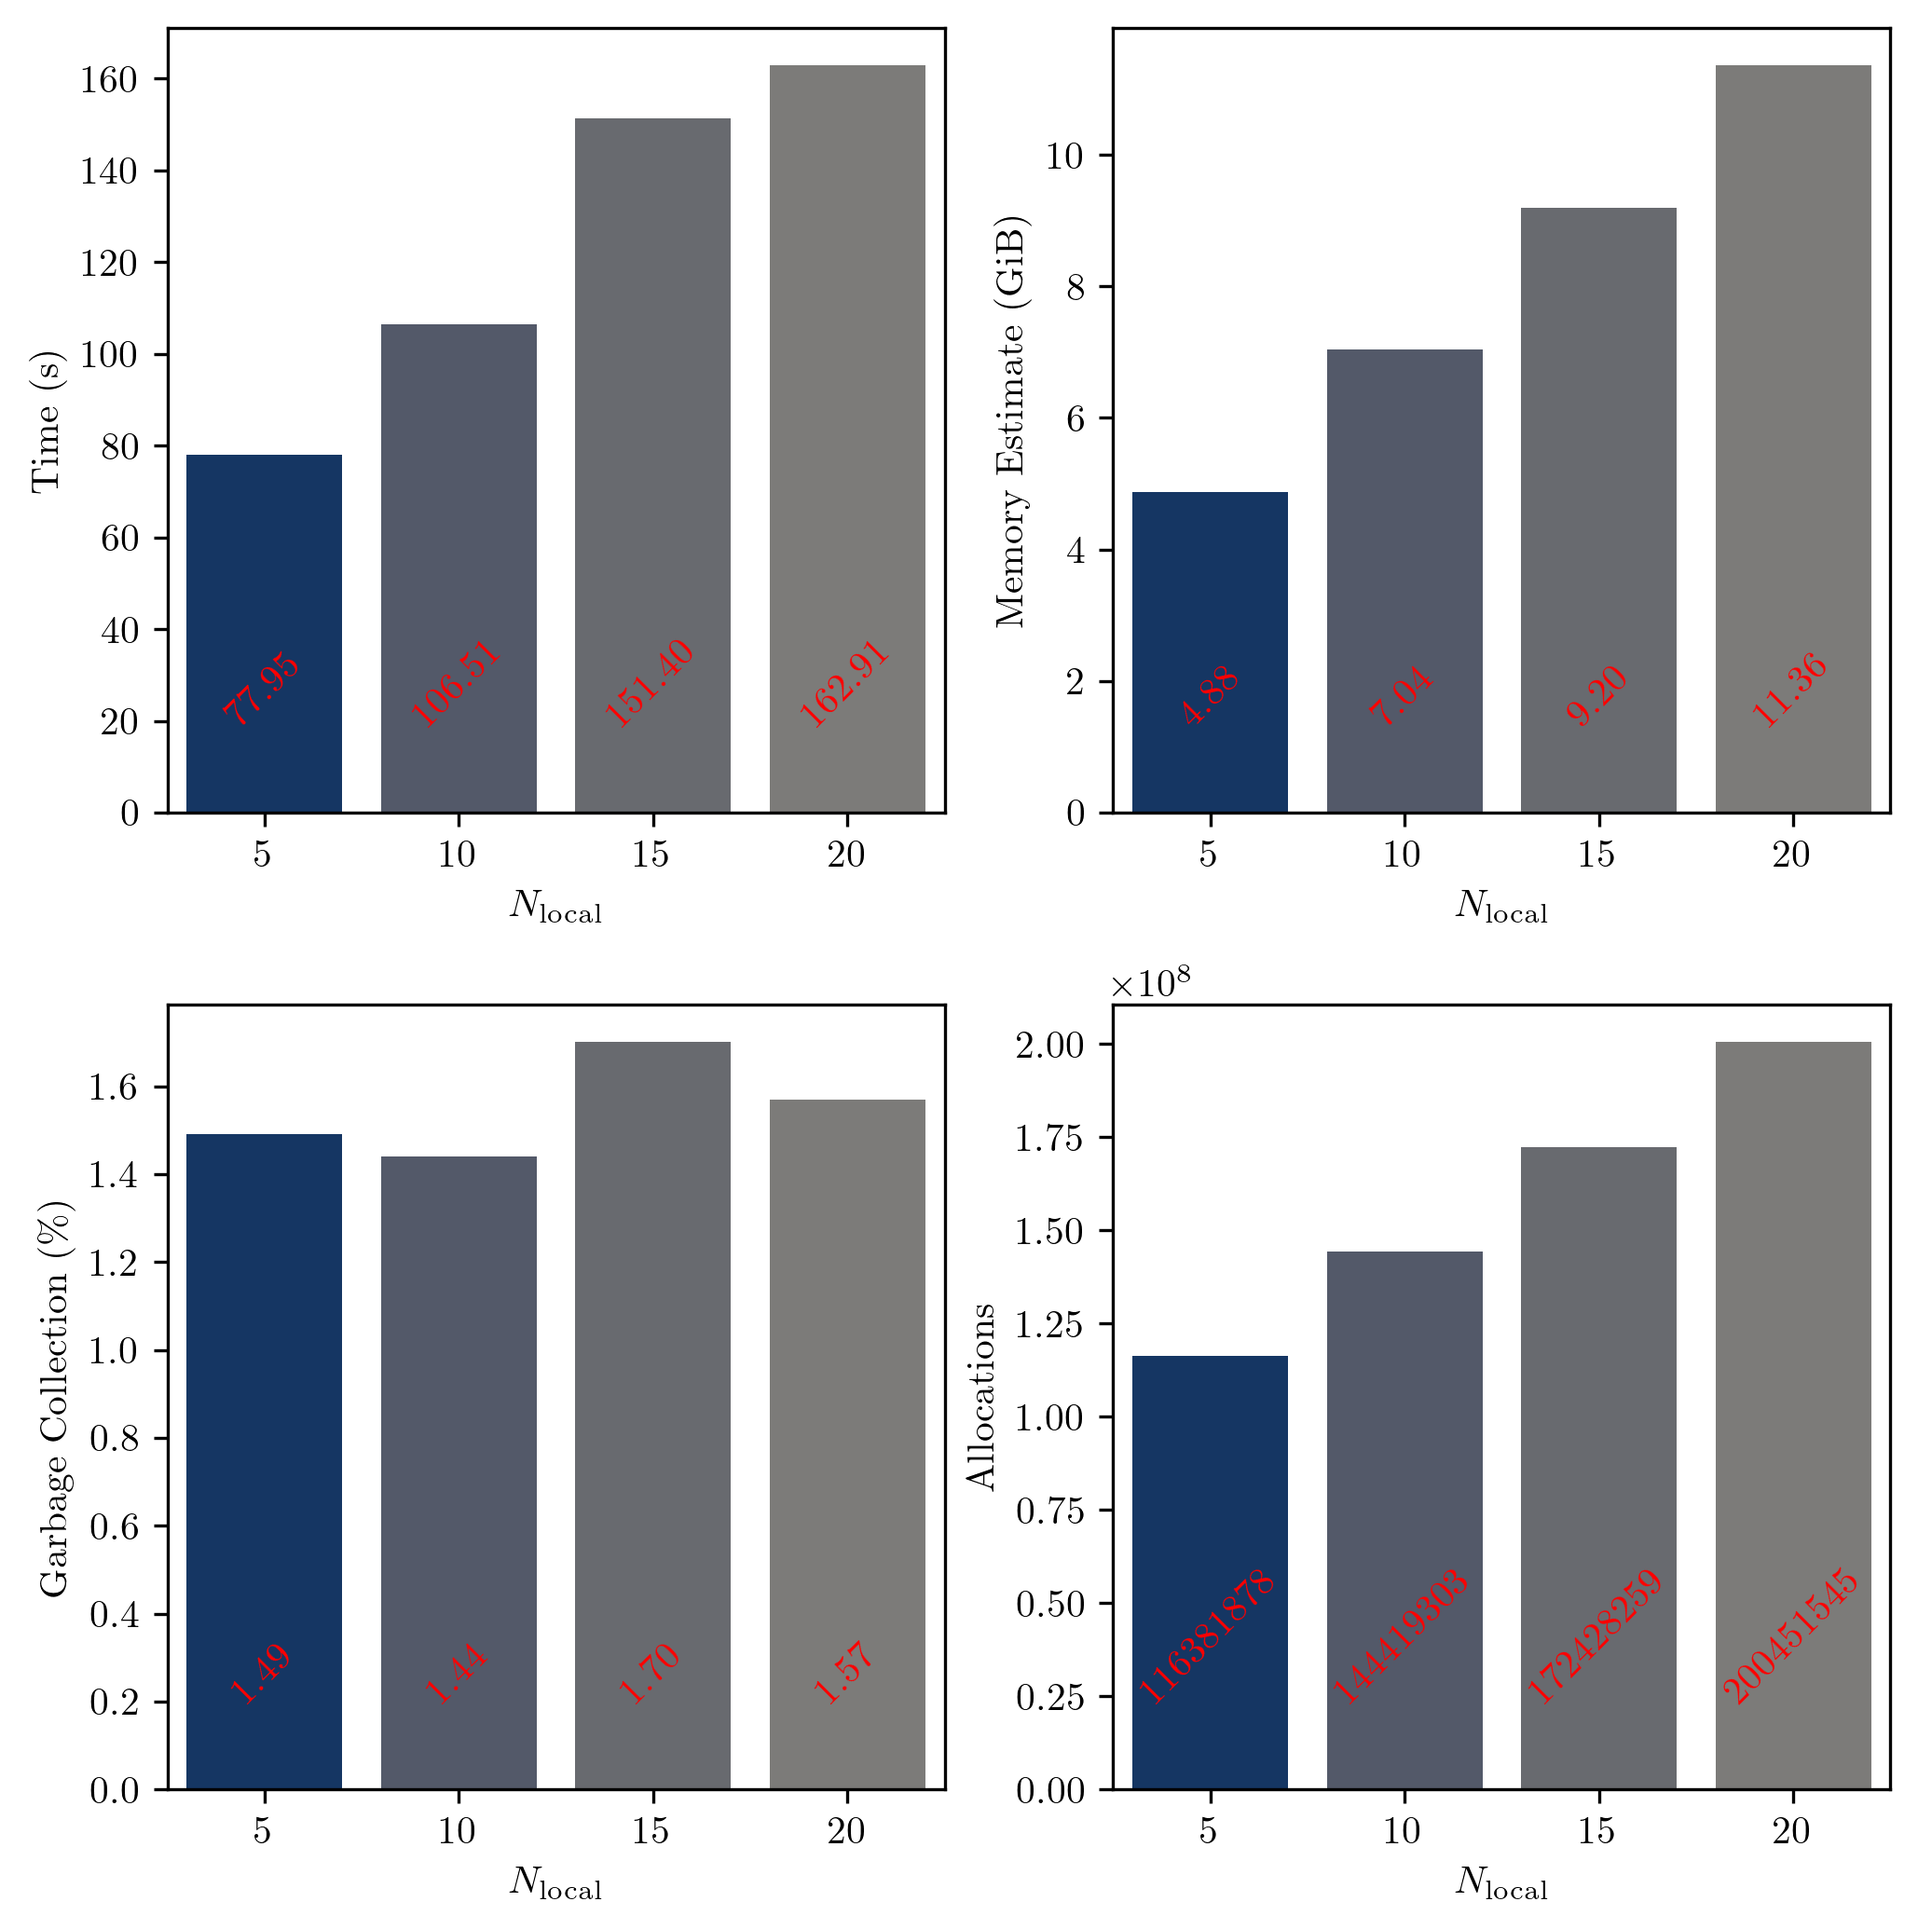
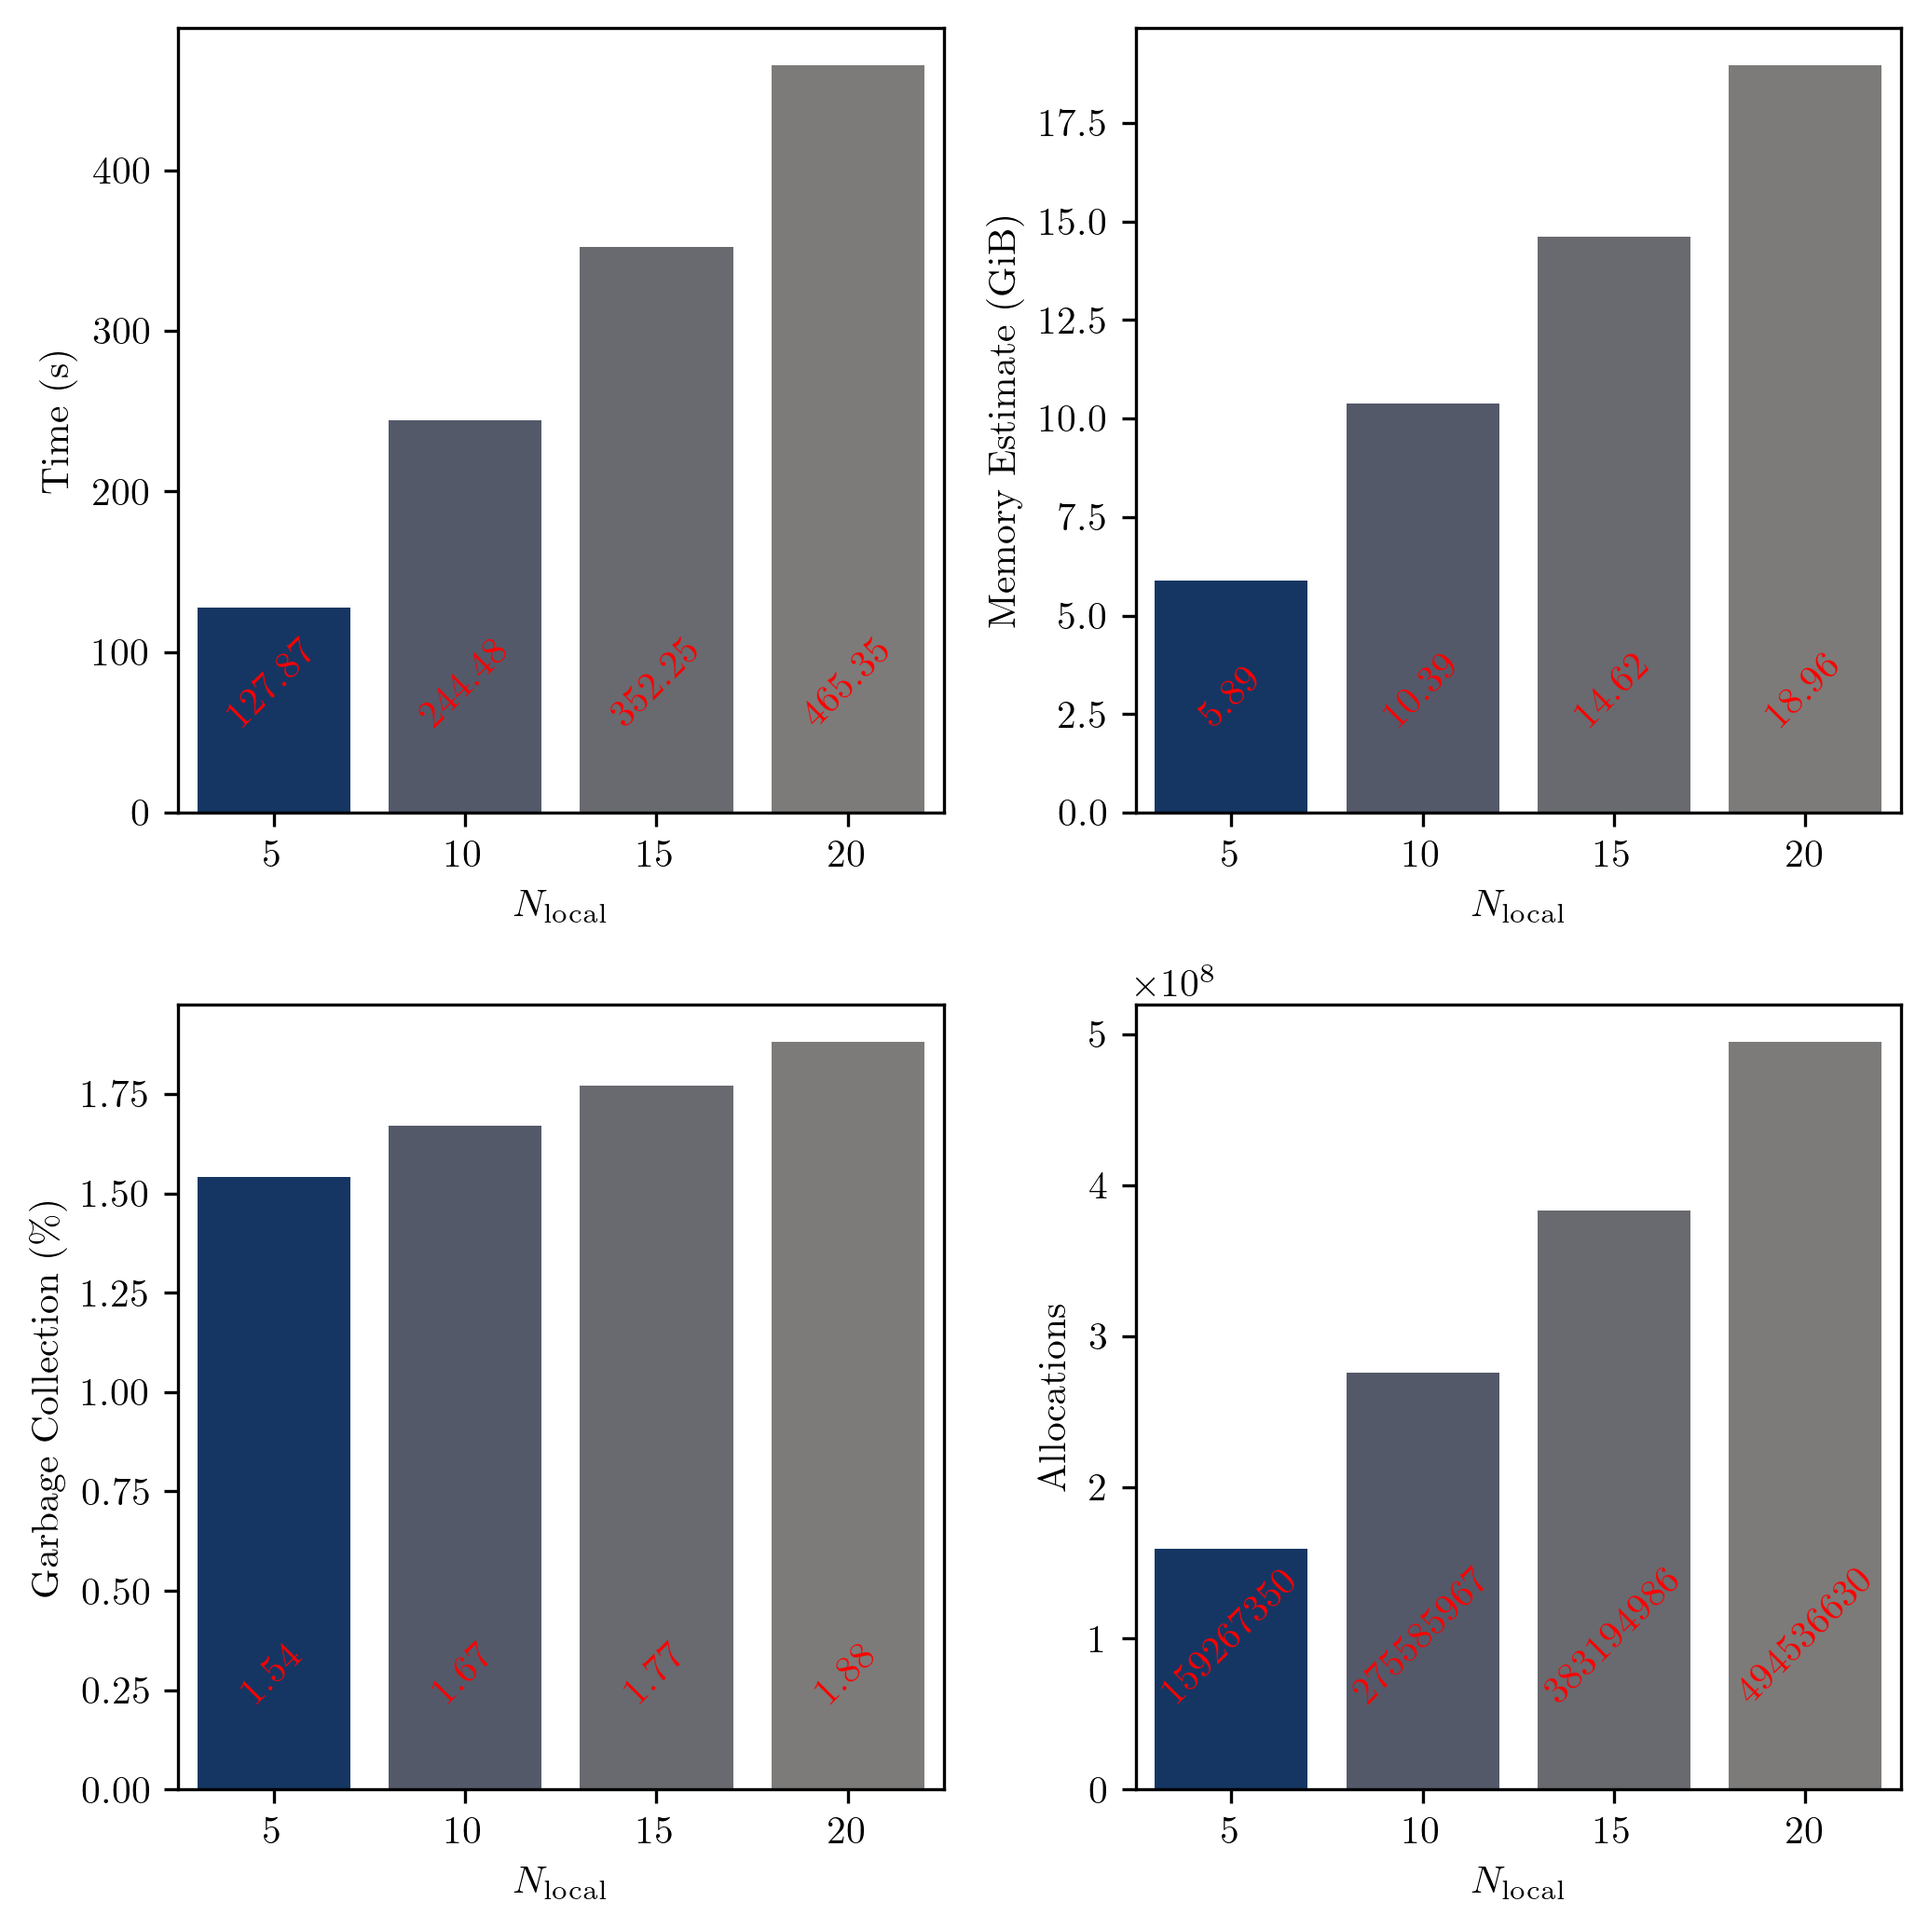
bench

diff --git a/plotting/benchmark/plot_cost.py b/plotting/benchmark/plot_cost.py
@@ -20,10 +20,10 @@ latent_dim = pd.DataFrame({
 
 mala_steps = pd.DataFrame({
     r"$N_{\text{local}}$" : [5, 10, 15, 20],
-    "Time (s)" : [77.949, 106.510, 151.397, 162.914],
-    "Memory Estimate (GiB)" : [4.88, 7.04, 9.20, 11.36],
-    "Garbage Collection (%)" : [1.49, 1.44, 1.70, 1.57],
-    "Allocations" : [116381878, 144419303, 172428259, 200451545],
+    "Time (s)" : [127.873, 244.480, 352.254, 465.345],
+    "Memory Estimate (GiB)" : [5.89, 10.39, 14.62, 18.96],
+    "Garbage Collection (%)" : [1.54, 1.67, 1.77, 1.88],
+    "Allocations" : [159267350, 275585967, 383194986, 494536630],
 })
 
 keys = [r"$n_z$", r"$N_{\text{local}}$"]
